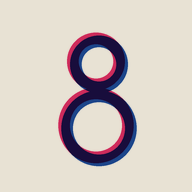
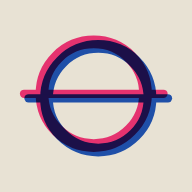
שם חדש לאפליקציה: תשיעיות — התפקידים במגרש
האפליקציה כבר מחזיקה ארבעה תפקידים, ושם שמבוסס על מספר אחד הפסיק
להיות נכון. "תשיעיות" הוא גם ממילא הסיומת שהקוד מוסיף לכל כותרת.

הלוגו: מעגל האמצע וקו האמצע, באותו טיפול שיש ל-.mark בעיצוב — ורוד
וכחול בהכפלה, והחפיפה ביניהם היא הנייבי. המקור נשמר ב-icons/logo.svg
כדי שאפשר יהיה לייצר את כל הגדלים מחדש בלי לנחש מספרים.

מפתחות ה-localStorage נשארו k8: בכוונה — שינוי שלהם מוחק לילדים את
ההתקדמות והתוצאות שנשמרו. שמות המטמון ב-sw.js הוחלפו ל-nines-*
והגרסה הועלתה ל-v16, כך שהמטמונים הישנים נמחקים באקטיבציה.

Claude-Session: https://claude.ai/code/session_019DSsZk96rxFc25eK88h2Du

Changed region(s): [[0.0938, 0.1562, 0.9062, 0.875]]

diff --git a/sw.js b/sw.js
@@ -15,9 +15,9 @@
 /* שם המטמון נגזר מגרסה אחת, כדי שכל שינוי קוד ינקה גם את מטמון התוכן.
    בלי זה, תוכן שנשמר בגרסה קודמת יכול להגיע לקוד חדש שמצפה למבנה אחר.
    הוספת תרחיש לא נוגעת בקובץ הזה, ולכן היא עדיין לא דורשת העלאת גרסה. */
-const VERSION = 'v15';
-const SHELL = 'kesher8-shell-' + VERSION;
-const CONTENT = 'kesher8-content-' + VERSION;
+const VERSION = 'v16';
+const SHELL = 'nines-shell-' + VERSION;
+const CONTENT = 'nines-content-' + VERSION;
 
 const ASSETS = [
   './', './index.html', './css/app.css',
@@ -25,7 +25,7 @@ const ASSETS = [
   './js/booklet.js', './js/library.js', './js/quiz.js', './js/terms.js',
   './editor.html', './css/editor.css', './js/editor.js',
   './fonts.css', './manifest.webmanifest',
-  './icons/icon-192.png', './icons/icon-512.png',
+  './icons/icon-192.png', './icons/icon-512.png', './icons/logo.svg',
   './icons/icon-maskable-512.png', './icons/apple-touch-icon.png', './icons/favicon-32.png',
   './fonts/suez-one-hebrew-400-normal.woff2', './fonts/suez-one-latin-400-normal.woff2',
   './fonts/assistant-hebrew-400-normal.woff2', './fonts/assistant-latin-400-normal.woff2',

diff --git a/index.html b/index.html
@@ -3,13 +3,13 @@
 <head>
 <meta charset="utf-8">
 <meta name="viewport" content="width=device-width, initial-scale=1, viewport-fit=cover">
-<title>מספר 8 — תשיעיות</title>
-<meta name="description" content="תרחישים טקטיים לכדורגל תשיעיות: מיקומים, תנועות, החלטות עם הכדור וטעויות נפוצות.">
+<title>תשיעיות — התפקידים במגרש</title>
+<meta name="description" content="חוברת לכל תפקיד במגרש בכדורגל תשיעיות: מיקומים, תנועות, החלטות עם הכדור וטעויות נפוצות.">
 <link rel="manifest" href="manifest.webmanifest">
 <meta name="theme-color" content="#E8E2D4">
 <meta name="apple-mobile-web-app-capable" content="yes">
 <meta name="apple-mobile-web-app-status-bar-style" content="default">
-<meta name="apple-mobile-web-app-title" content="מספר 8">
+<meta name="apple-mobile-web-app-title" content="תשיעיות">
 <link rel="apple-touch-icon" href="icons/apple-touch-icon.png">
 <link rel="icon" href="icons/favicon-32.png" sizes="32x32">
 <link rel="stylesheet" href="fonts.css">

diff --git a/css/app.css b/css/app.css
@@ -1,4 +1,4 @@
-/* מספר 8 — עיצוב האפליקציה. הועתק כלשונו מגרסת הדף היחיד. */
+/* תשיעיות — עיצוב האפליקציה. הועתק כלשונו מגרסת הדף היחיד. */
 :root{
   --paper:#E8E2D4; --ink:#17211F; --ink-soft:rgba(23,33,31,.62);
   --hair:rgba(23,33,31,.22); --blue:#1F4FA8; --pink:#E5326F;

diff --git a/README.md b/README.md
@@ -1,6 +1,6 @@
-# מספר 8 — כדורגל תשיעיות
+# תשיעיות — התפקידים במגרש
 
-אפליקציית PWA בעברית: תרחישים טקטיים לילדים שמשחקים תשיעיות.
+אפליקציית PWA בעברית: חוברת לכל תפקיד במגרש, לילדים שמשחקים תשיעיות.
 עובדת אופליין במלואה — פונטים, אייקונים ודיאגרמות מקומיים, בלי תלות ברשת אחרי הטעינה הראשונה.
 
 ## מבנה
@@ -23,7 +23,8 @@ content/kesher-6.json   חוברת מספר 6
 content/kesher-8.json   חוברת מספר 8
 content/left-back.json  חוברת מגן שמאלי
 content/winger.json     חוברת כנף
-fonts.css fonts/ icons/ manifest.webmanifest sw.js
+fonts.css fonts/ manifest.webmanifest sw.js
+icons/logo.svg          מקור הלוגו — מעגל האמצע וקו האמצע; שאר האייקונים נגזרים ממנו
 ```
 
 ## כתובות
